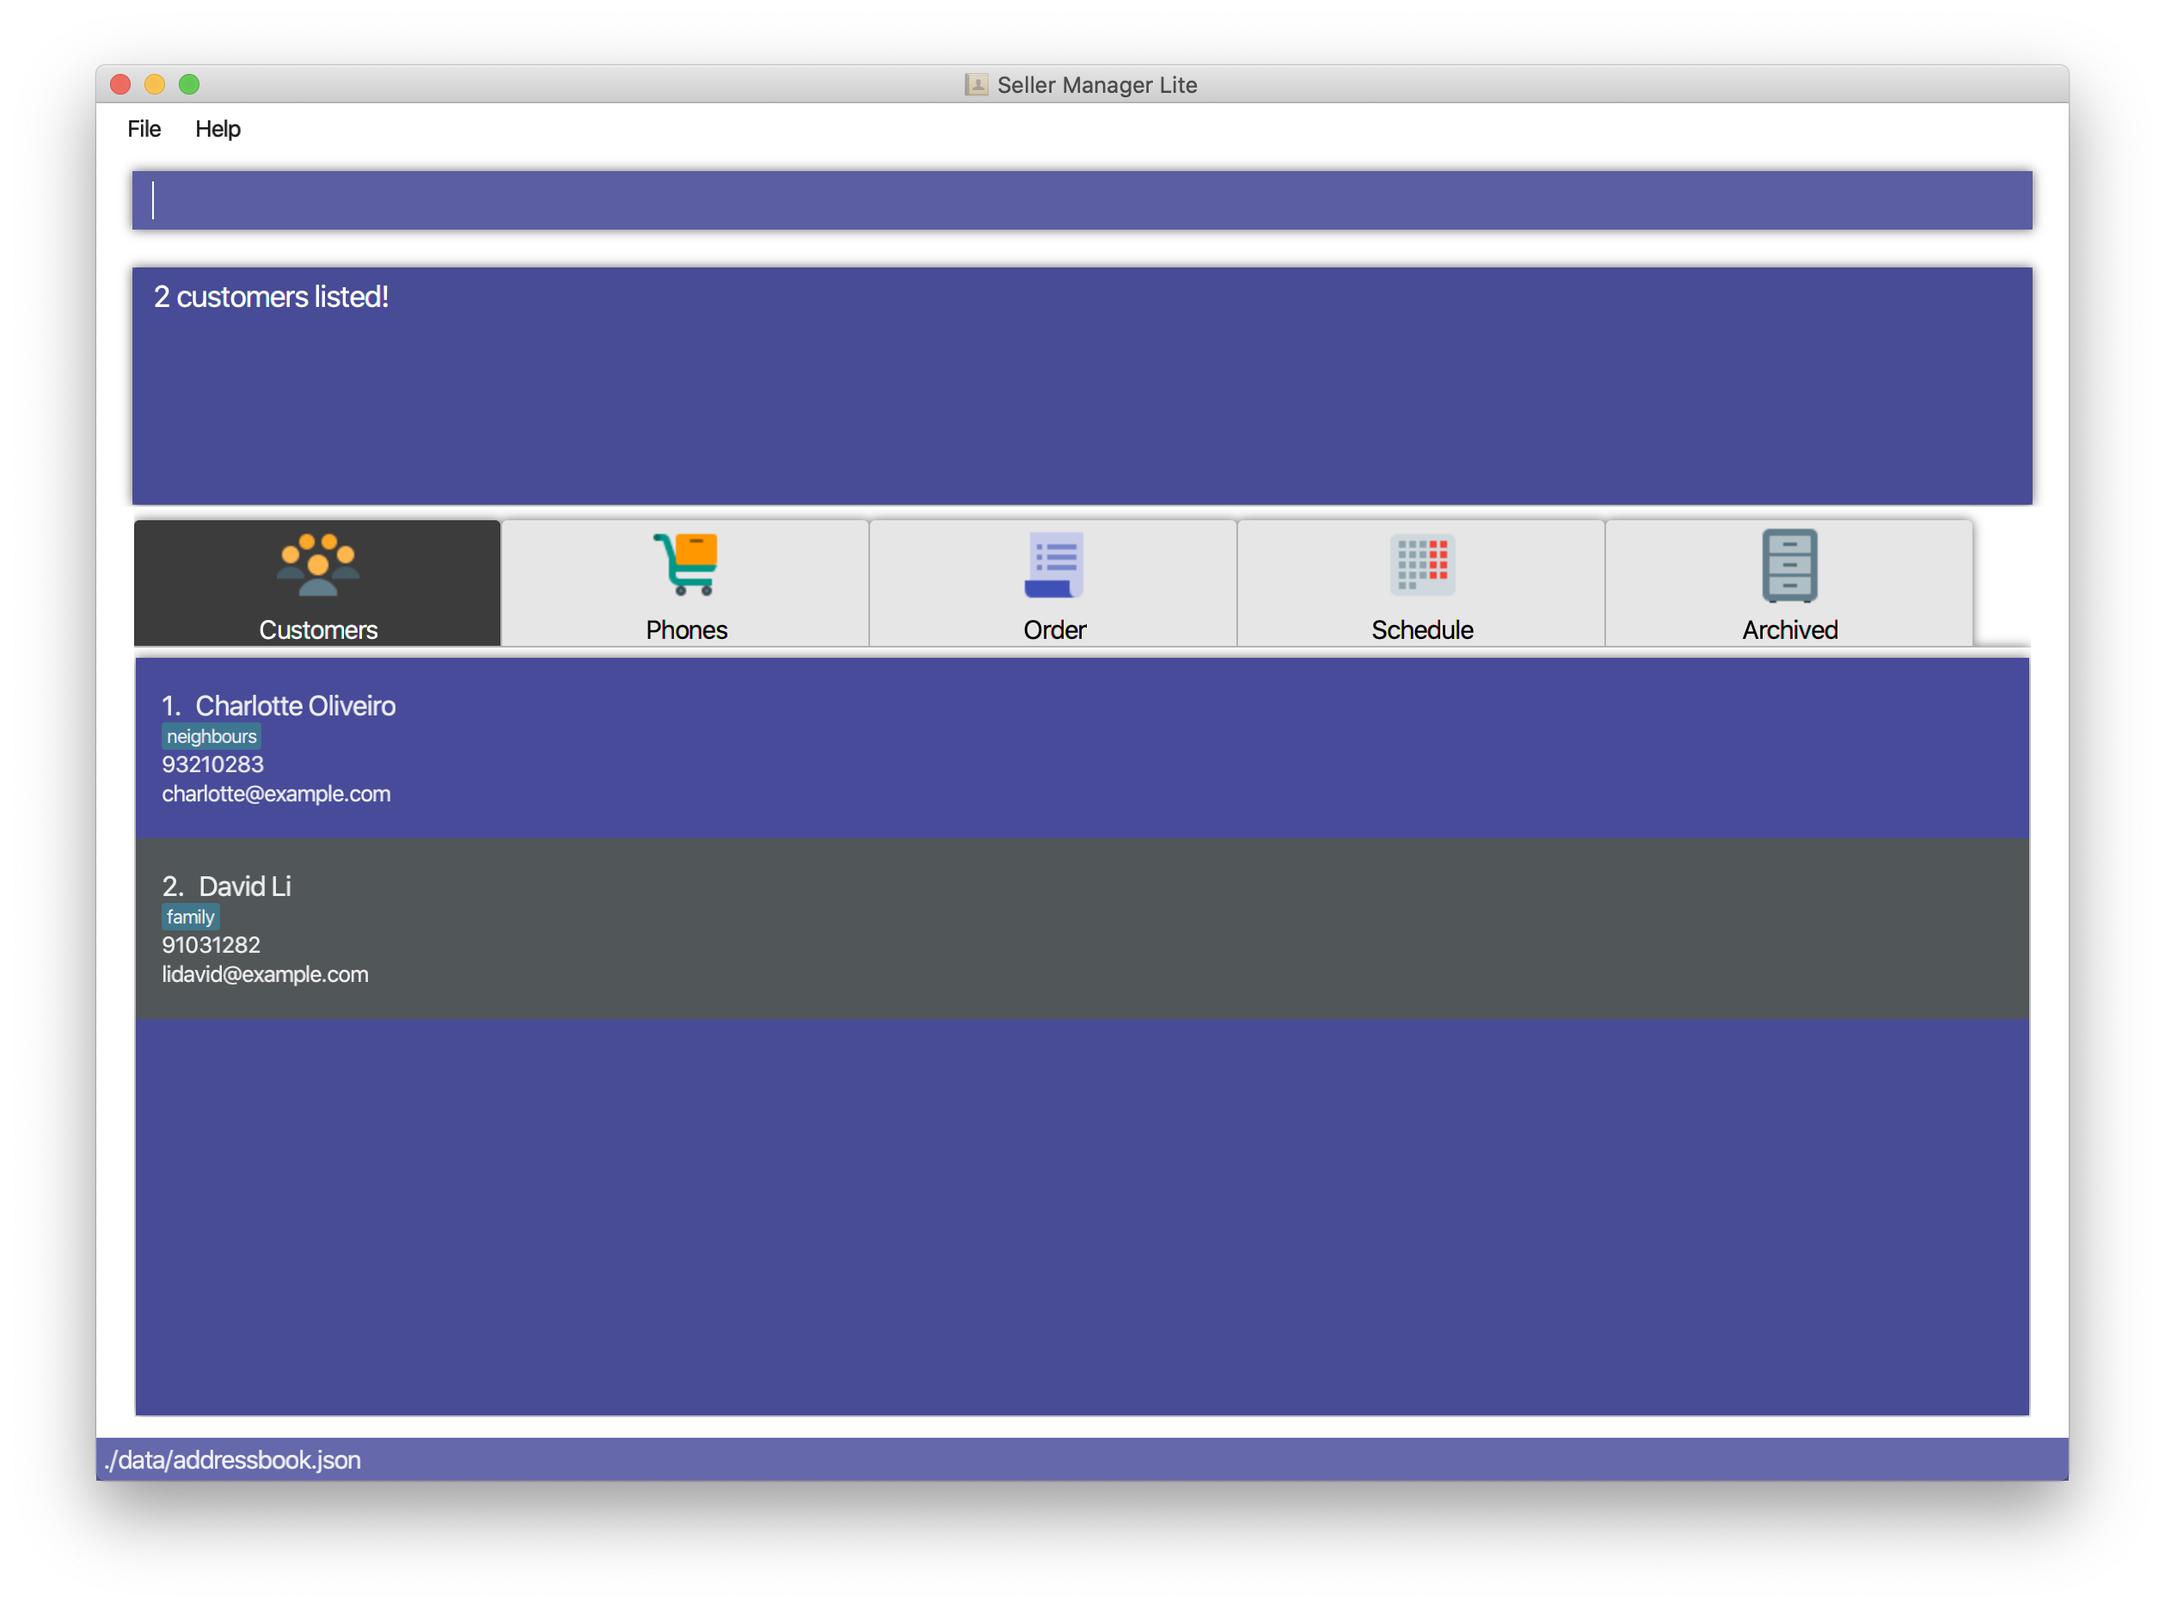
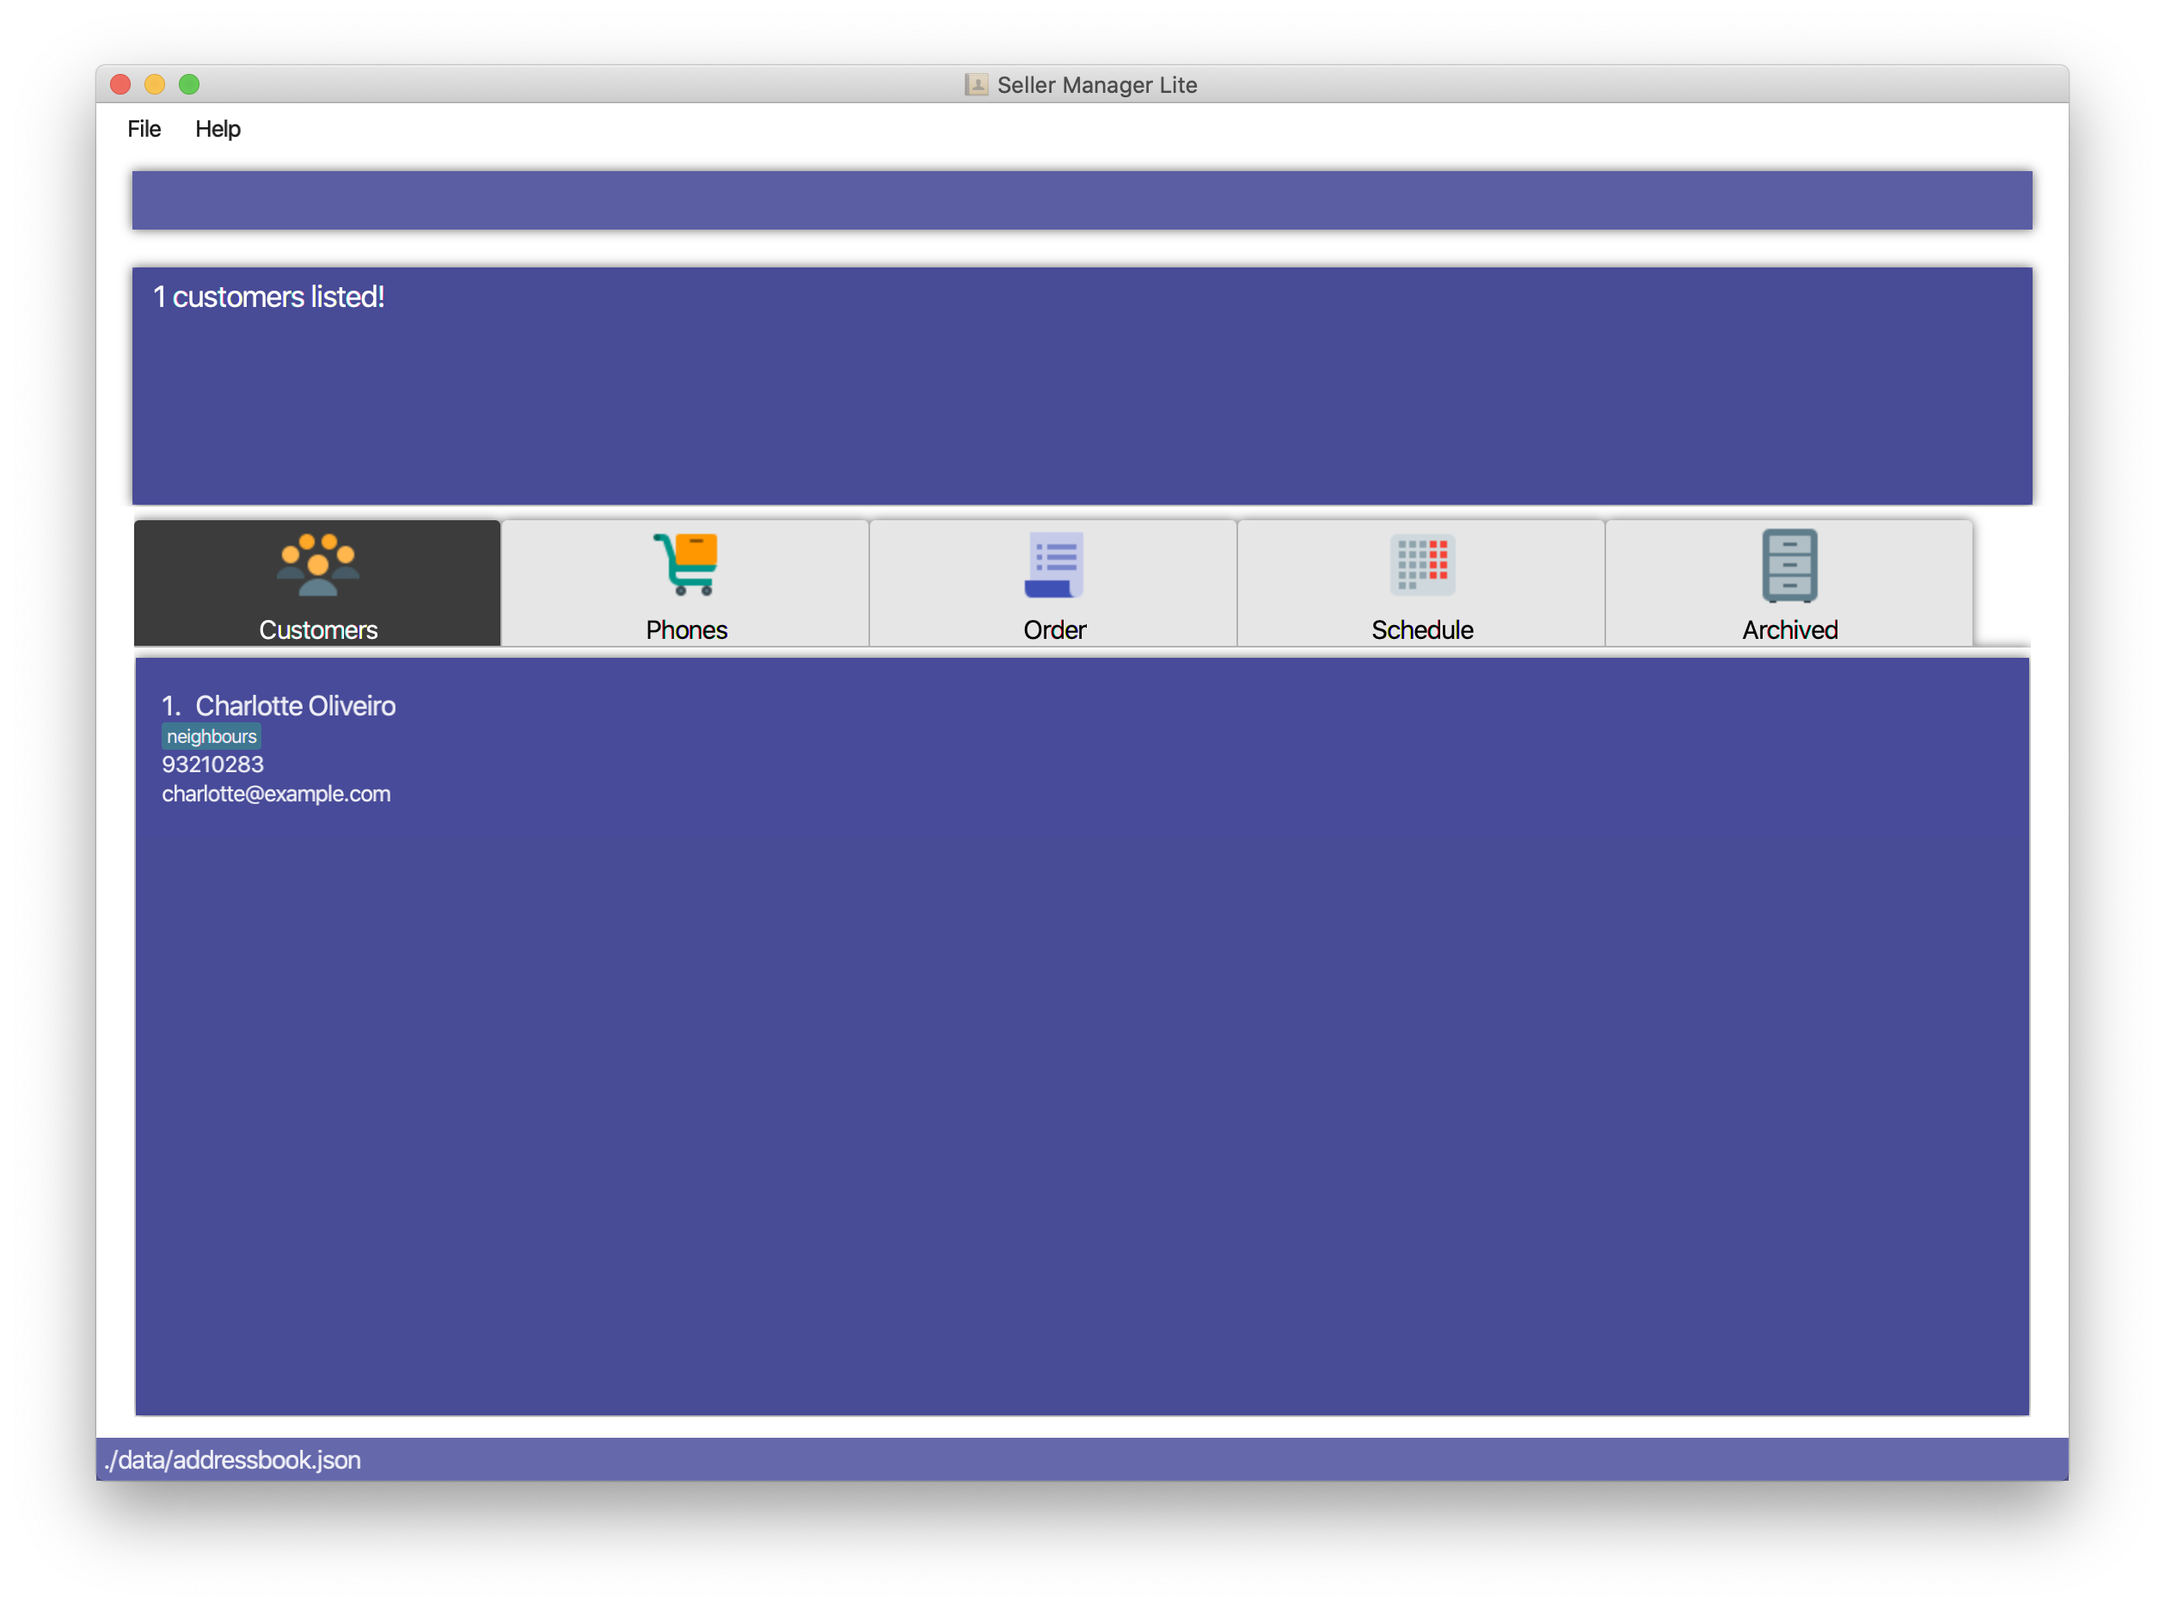
Implement AND search

Changed region(s): [[0.062, 0.4963, 0.9603, 0.6513], [0.0929, 0.1551, 0.1859, 0.2171]]

diff --git a/src/test/java/seedu/address/model/customer/predicates/CustomerContainsKeywordsPredicateTest.java b/src/test/java/seedu/address/model/customer/predicates/CustomerContainsKeywordsPredicateTest.java
@@ -62,25 +62,12 @@ public class CustomerContainsKeywordsPredicateTest {
         predicate = new CustomerContainsKeywordsPredicate(Collections.singletonList("Rich"));
         assertTrue(predicate.test(new CustomerBuilder().withTags("Rich").build()));
 
+
+
         // Multiple keywords
         predicate = new CustomerContainsKeywordsPredicate(Arrays.asList("Alice", "Bob"));
         assertTrue(predicate.test(new CustomerBuilder().withName("Alice Bob").build()));
 
-        // Only one matching keyword in customer name
-        predicate = new CustomerContainsKeywordsPredicate(Arrays.asList("Bob", "Carol"));
-        assertTrue(predicate.test(new CustomerBuilder().withName("Alice Carol").build()));
-
-        // Only one matching keyword in email
-        predicate = new CustomerContainsKeywordsPredicate(Arrays.asList("alice", "bob"));
-        assertTrue(predicate.test(new CustomerBuilder().withEmail("alice@gmail.com").build()));
-
-        // Only one matching keyword in contact number
-        predicate = new CustomerContainsKeywordsPredicate(Arrays.asList("99817283", "27371929"));
-        assertTrue(predicate.test(new CustomerBuilder().withContactNumber("99817283").build()));
-
-        // Only one matching keyword in tags
-        predicate = new CustomerContainsKeywordsPredicate(Arrays.asList("Regular", "Rich"));
-        assertTrue(predicate.test(new CustomerBuilder().withTags("Rich").build()));
 
 
         // Mixed-case keywords
@@ -90,8 +77,27 @@ public class CustomerContainsKeywordsPredicateTest {
 
     @Test
     public void test_nameDoesNotContainKeywords_returnsFalse() {
-        // Zero keywords
+
+        // Only one matching keyword in customer name
         CustomerContainsKeywordsPredicate predicate =
+                new CustomerContainsKeywordsPredicate(Arrays.asList("Bob", "Carol"));
+        assertFalse(predicate.test(new CustomerBuilder().withName("Alice Carol").build()));
+
+        // Only one matching keyword in email
+        predicate = new CustomerContainsKeywordsPredicate(Arrays.asList("alice", "bob"));
+        assertFalse(predicate.test(new CustomerBuilder().withEmail("alice@gmail.com").build()));
+
+        // Only one matching keyword in contact number
+        predicate = new CustomerContainsKeywordsPredicate(Arrays.asList("99817283", "27371929"));
+        assertFalse(predicate.test(new CustomerBuilder().withContactNumber("99817283").build()));
+
+        // Only one matching keyword in tags
+        predicate = new CustomerContainsKeywordsPredicate(Arrays.asList("Regular", "Rich"));
+        assertFalse(predicate.test(new CustomerBuilder().withTags("Rich").build()));
+
+
+        // Zero keywords
+        predicate =
                 new CustomerContainsKeywordsPredicate(Collections.emptyList());
         assertFalse(predicate.test(new CustomerBuilder().withName("Alice").build()));
 

diff --git a/src/test/java/seedu/address/logic/commands/findcommand/FindOrderCommandTest.java b/src/test/java/seedu/address/logic/commands/findcommand/FindOrderCommandTest.java
@@ -7,8 +7,6 @@ import static seedu.address.commons.core.Messages.MESSAGE_ORDERS_LISTED_OVERVIEW
 import static seedu.address.logic.commands.CommandTestUtil.assertCommandSuccess;
 import static seedu.address.testutil.TypicalCustomers.getTypicalCustomerBook;
 import static seedu.address.testutil.TypicalOrders.ORDERONE;
-import static seedu.address.testutil.TypicalOrders.ORDERTHREE;
-import static seedu.address.testutil.TypicalOrders.ORDERTWO;
 import static seedu.address.testutil.TypicalOrders.getTypicalOrderBook;
 import static seedu.address.testutil.TypicalPhones.getTypicalPhoneBook;
 import static seedu.address.testutil.TypicalSchedules.getTypicalScheduleBook;
@@ -65,7 +63,7 @@ public class FindOrderCommandTest {
     }
 
     @Test
-    public void execute_zeroKeywords_noPersonFound() {
+    public void execute_zeroKeywords_noOrderFound() {
         String expectedMessage = String.format(MESSAGE_ORDERS_LISTED_OVERVIEW, 0);
         OrderContainsKeywordsPredicate predicate = preparePredicate(" ");
         FindOrderCommand command = new FindOrderCommand(predicate);
@@ -75,13 +73,13 @@ public class FindOrderCommandTest {
     }
 
     @Test
-    public void execute_multipleKeywords_multiplePersonsFound() {
-        String expectedMessage = String.format(MESSAGE_ORDERS_LISTED_OVERVIEW, 3);
-        OrderContainsKeywordsPredicate predicate = preparePredicate("$1231.12 $909 $500");
+    public void execute_multipleKeywords_multipleOrdersFound() {
+        String expectedMessage = String.format(MESSAGE_ORDERS_LISTED_OVERVIEW, 1);
+        OrderContainsKeywordsPredicate predicate = preparePredicate("$1231.12 iphone");
         FindOrderCommand command = new FindOrderCommand(predicate);
         expectedModel.updateFilteredOrderList(predicate);
         assertCommandSuccess(command, model, expectedMessage, expectedModel);
-        assertEquals(Arrays.asList(ORDERONE, ORDERTWO, ORDERTHREE), model.getFilteredOrderList());
+        assertEquals(Arrays.asList(ORDERONE), model.getFilteredOrderList());
     }
 
     /**

diff --git a/src/test/java/seedu/address/logic/commands/findcommand/FindCustomerCommandTest.java b/src/test/java/seedu/address/logic/commands/findcommand/FindCustomerCommandTest.java
@@ -6,8 +6,6 @@ import static org.junit.jupiter.api.Assertions.assertTrue;
 import static seedu.address.commons.core.Messages.MESSAGE_CUSTOMERS_LISTED_OVERVIEW;
 import static seedu.address.logic.commands.CommandTestUtil.assertCommandSuccess;
 import static seedu.address.testutil.TypicalCustomers.CARL;
-import static seedu.address.testutil.TypicalCustomers.ELLE;
-import static seedu.address.testutil.TypicalCustomers.FIONA;
 import static seedu.address.testutil.TypicalCustomers.getTypicalCustomerBook;
 import static seedu.address.testutil.TypicalOrders.getTypicalOrderBook;
 import static seedu.address.testutil.TypicalPhones.getTypicalPhoneBook;
@@ -65,7 +63,7 @@ public class FindCustomerCommandTest {
     }
 
     @Test
-    public void execute_zeroKeywords_noPersonFound() {
+    public void execute_zeroKeyword_noCustomerFound() {
         String expectedMessage = String.format(MESSAGE_CUSTOMERS_LISTED_OVERVIEW, 0);
         CustomerContainsKeywordsPredicate predicate = preparePredicate(" ");
         FindCustomerCommand command = new FindCustomerCommand(predicate);
@@ -75,13 +73,13 @@ public class FindCustomerCommandTest {
     }
 
     @Test
-    public void execute_multipleKeywords_multiplePersonsFound() {
-        String expectedMessage = String.format(MESSAGE_CUSTOMERS_LISTED_OVERVIEW, 3);
-        CustomerContainsKeywordsPredicate predicate = preparePredicate("Kurz Elle Kunz");
+    public void execute_multipleKeywords_oneCustomerFound() {
+        String expectedMessage = String.format(MESSAGE_CUSTOMERS_LISTED_OVERVIEW, 1);
+        CustomerContainsKeywordsPredicate predicate = preparePredicate("Carl Kurz");
         FindCustomerCommand command = new FindCustomerCommand(predicate);
         expectedModel.updateFilteredCustomerList(predicate);
         assertCommandSuccess(command, model, expectedMessage, expectedModel);
-        assertEquals(Arrays.asList(CARL, ELLE, FIONA), model.getFilteredCustomerList());
+        assertEquals(Arrays.asList(CARL), model.getFilteredCustomerList());
     }
 
     /**

diff --git a/src/test/java/seedu/address/model/order/predicates/OrderContainsKeywordsPredicateTest.java b/src/test/java/seedu/address/model/order/predicates/OrderContainsKeywordsPredicateTest.java
@@ -66,16 +66,6 @@ public class OrderContainsKeywordsPredicateTest {
                 new PhoneBuilder().withColour("Purple").build()).build()));
 
 
-        // Only one matching keyword in customer name
-        predicate = new OrderContainsKeywordsPredicate(Arrays.asList("Bob", "Carol"));
-        assertTrue(predicate.test(new OrderBuilder().withCustomer(
-                new CustomerBuilder().withName("Alice Carol").build()).build()));
-
-
-        // Only one matching keyword in customer contact number
-        predicate = new OrderContainsKeywordsPredicate(Arrays.asList("1234", "4321"));
-        assertTrue(predicate.test(new OrderBuilder().withCustomer(
-                new CustomerBuilder().withContactNumber("12345678").build()).build()));
 
 
         //one keyword that matches identity number
@@ -98,8 +88,20 @@ public class OrderContainsKeywordsPredicateTest {
 
     @Test
     public void test_nameDoesNotContainKeywords_returnsFalse() {
+
+        // Only one matching keyword in customer name
+        OrderContainsKeywordsPredicate predicate = new OrderContainsKeywordsPredicate(Arrays.asList("Bob", "Carol"));
+        assertFalse(predicate.test(new OrderBuilder().withCustomer(
+                new CustomerBuilder().withName("Alice Carol").build()).build()));
+
+
+        // Only one matching keyword in customer contact number
+        predicate = new OrderContainsKeywordsPredicate(Arrays.asList("1234", "4321"));
+        assertFalse(predicate.test(new OrderBuilder().withCustomer(
+                new CustomerBuilder().withContactNumber("12345678").build()).build()));
+
         // Zero keywords
-        OrderContainsKeywordsPredicate predicate =
+        predicate =
                 new OrderContainsKeywordsPredicate(Collections.emptyList());
         assertFalse(predicate.test(new OrderBuilder().withPrice("$1820").build()));
 

diff --git a/src/main/java/seedu/address/model/customer/predicates/CustomerContainsKeywordsPredicate.java b/src/main/java/seedu/address/model/customer/predicates/CustomerContainsKeywordsPredicate.java
@@ -18,8 +18,13 @@ public class CustomerContainsKeywordsPredicate implements Predicate<Customer> {
 
     @Override
     public boolean test(Customer customer) {
+
+        if (keywords.isEmpty()) {
+            return false;
+        }
+
         return keywords.stream()
-                .anyMatch(keyword ->
+                .allMatch(keyword ->
                         StringUtil.containsWordIgnoreCase(customer.getCustomerName().toString(), keyword)
                                 || StringUtil.containsWordIgnoreCase(customer.getContactNumber().toString(), keyword)
                                 || StringUtil.containsWordIgnoreCase(customer.getEmail().toString(), keyword)

diff --git a/src/main/java/seedu/address/model/phone/predicates/PhoneContainsKeywordsPredicate.java b/src/main/java/seedu/address/model/phone/predicates/PhoneContainsKeywordsPredicate.java
@@ -18,8 +18,13 @@ public class PhoneContainsKeywordsPredicate implements Predicate<Phone> {
 
     @Override
     public boolean test(Phone phone) {
+
+        if (keywords.isEmpty()) {
+            return false;
+        }
+
         return keywords.stream()
-                .anyMatch(keyword ->
+                .allMatch(keyword ->
                         StringUtil.containsWordIgnoreCase(phone.getIdentityNumber().toString(), keyword)
                                 || StringUtil.containsWordIgnoreCase(phone.getSerialNumber().toString(), keyword)
                                 || StringUtil.containsWordIgnoreCase(phone.getPhoneName().toString(), keyword)

diff --git a/src/main/java/seedu/address/model/order/predicates/OrderContainsKeywordsPredicate.java b/src/main/java/seedu/address/model/order/predicates/OrderContainsKeywordsPredicate.java
@@ -18,8 +18,13 @@ public class OrderContainsKeywordsPredicate implements Predicate<Order> {
 
     @Override
     public boolean test(Order order) {
+
+        if (keywords.isEmpty()) {
+            return false;
+        }
+
         return keywords.stream()
-                .anyMatch(keyword ->
+                .allMatch(keyword ->
                         StringUtil.containsWordIgnoreCase(order.getCustomer().getCustomerName().toString(), keyword)
                         || StringUtil.containsWordIgnoreCase(
                                 order.getCustomer().getContactNumber().toString(), keyword)

diff --git a/src/test/java/seedu/address/logic/commands/findcommand/FindPhoneCommandTest.java b/src/test/java/seedu/address/logic/commands/findcommand/FindPhoneCommandTest.java
@@ -67,7 +67,7 @@ public class FindPhoneCommandTest {
     @Test
     public void execute_zeroKeywords_noPhoneFound() {
         String expectedMessage = String.format(MESSAGE_PHONE_LISTED_OVERVIEW, 0);
-        PhoneContainsKeywordsPredicate predicate = preparePredicate(" ");
+        PhoneContainsKeywordsPredicate predicate = preparePredicate("  ");
         FindPhoneCommand command = new FindPhoneCommand(predicate);
         expectedModel.updateFilteredPhoneList(predicate);
         assertCommandSuccess(command, model, expectedMessage, expectedModel);

diff --git a/src/test/java/seedu/address/logic/commands/CommandTestUtil.java b/src/test/java/seedu/address/logic/commands/CommandTestUtil.java
@@ -288,6 +288,9 @@ public class CommandTestUtil {
             Model expectedModel) {
         try {
             CommandResult result = command.execute(actualModel, new CommandHistory(), new UndoRedoStack());
+
+            System.out.println(result.getFeedbackToUser());
+            System.out.println(expectedCommandResult.getFeedbackToUser());
             assertEquals(expectedCommandResult, result);
             assertEquals(expectedModel, actualModel);
         } catch (CommandException ce) {
